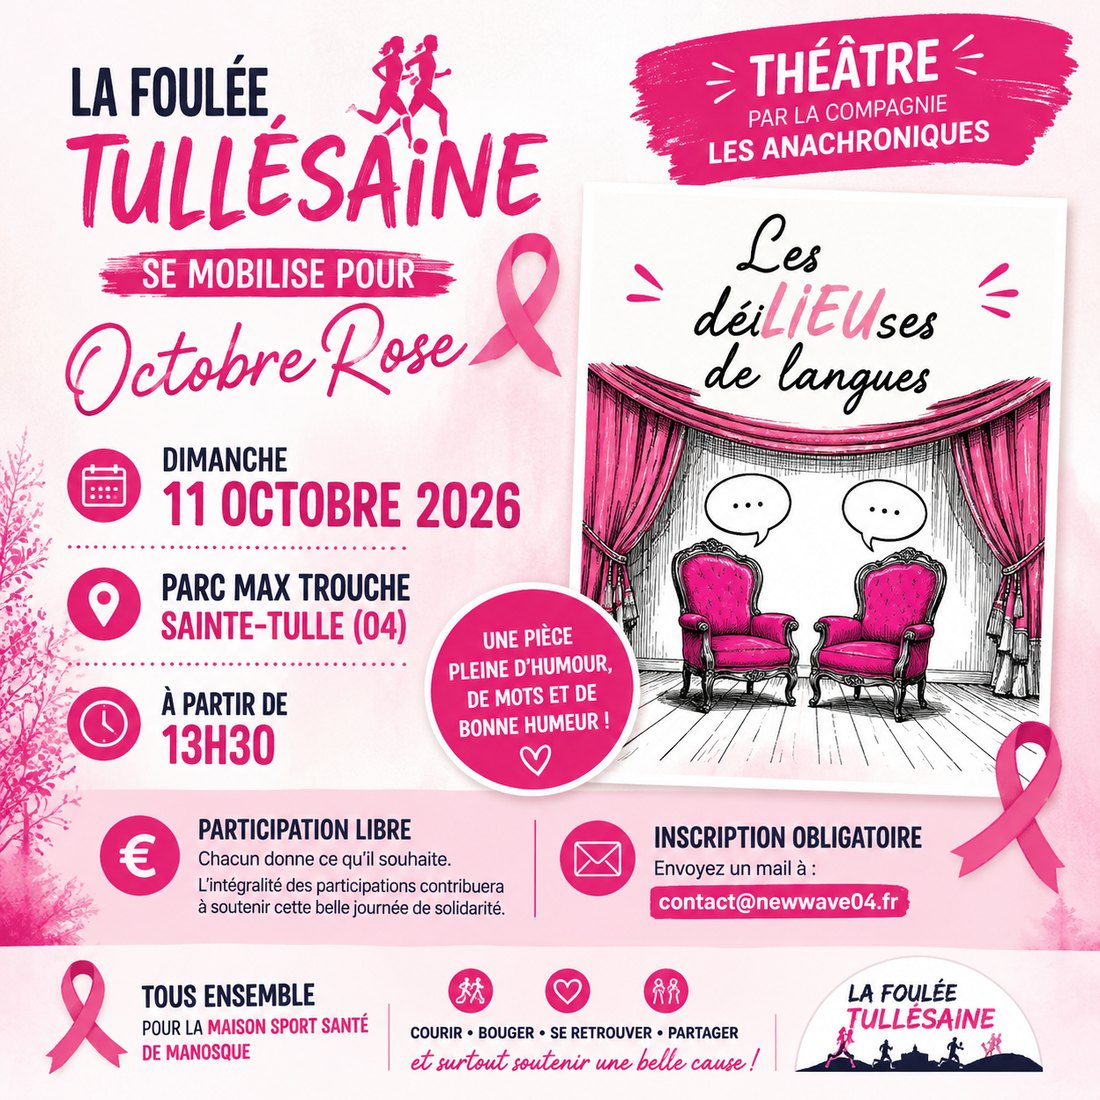
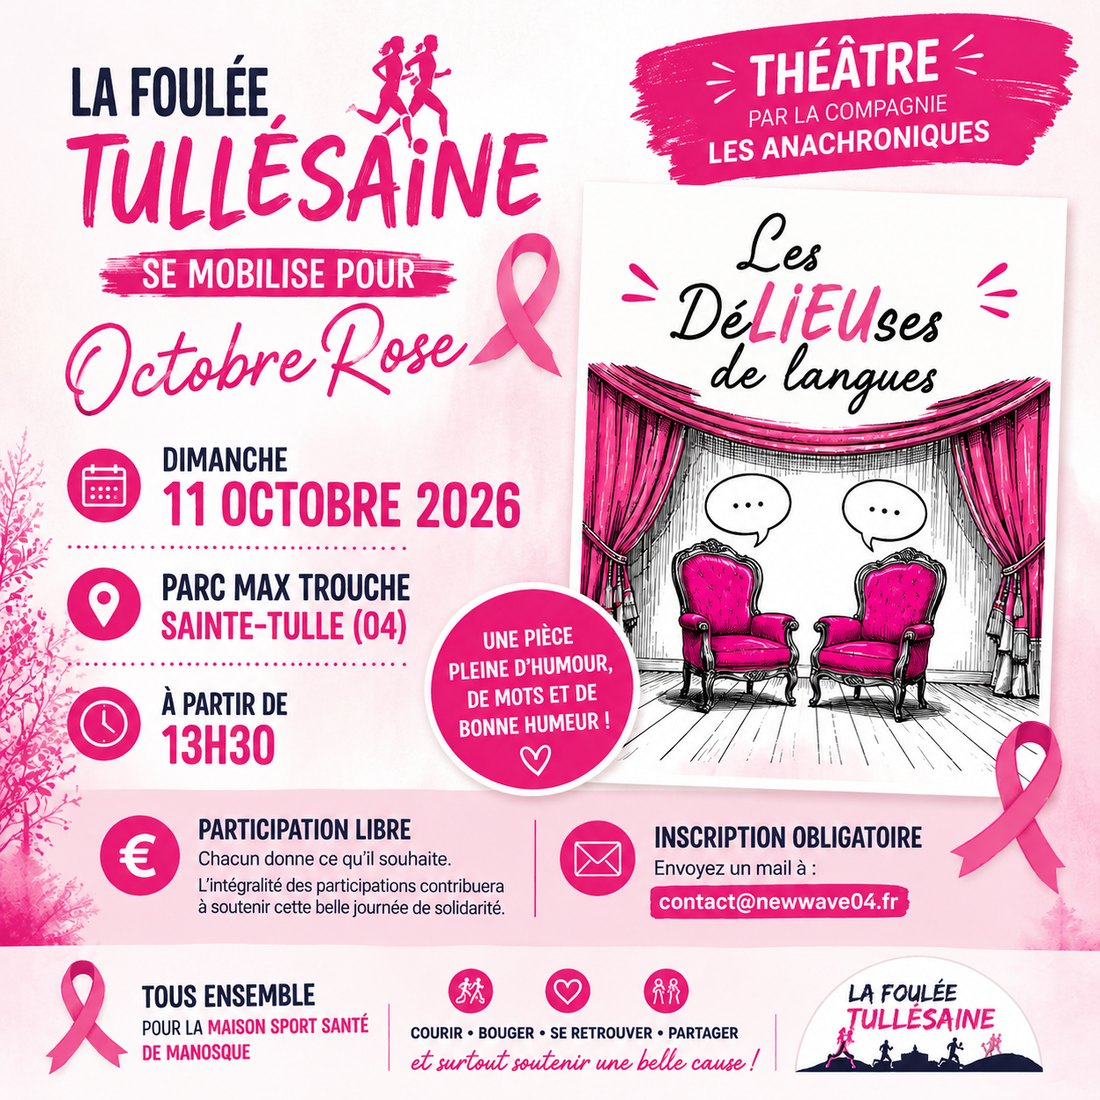
Affiche théâtre : version corrigée
Nouvelle affiche fournie par l'organisation : le titre est désormais
« Les DéLIEUses de langues », cohérent avec le texte du site.
Cache-bust ?v=2 pour forcer le rafraîchissement côté visiteurs.

diff --git a/index.html b/index.html
@@ -338,8 +338,8 @@
 
     <div class="theatre__grid">
       <figure class="theatre__poster reveal">
-        <button class="gallery__item" data-full="assets/theatre-affiche.jpg" aria-label="Agrandir l'affiche du spectacle">
-          <img src="assets/theatre-affiche.jpg" alt="Affiche : La Foulée Tullésaine se mobilise pour Octobre Rose, théâtre par la compagnie Les Anachroniques, Les DéLIEUses de langues, dimanche 11 octobre 2026 à partir de 13h30 au parc Max Trouche" loading="lazy">
+        <button class="gallery__item" data-full="assets/theatre-affiche.jpg?v=2" aria-label="Agrandir l'affiche du spectacle">
+          <img src="assets/theatre-affiche.jpg?v=2" alt="Affiche : La Foulée Tullésaine se mobilise pour Octobre Rose, théâtre par la compagnie Les Anachroniques, Les DéLIEUses de langues, dimanche 11 octobre 2026 à partir de 13h30 au parc Max Trouche" loading="lazy">
         </button>
       </figure>
 
